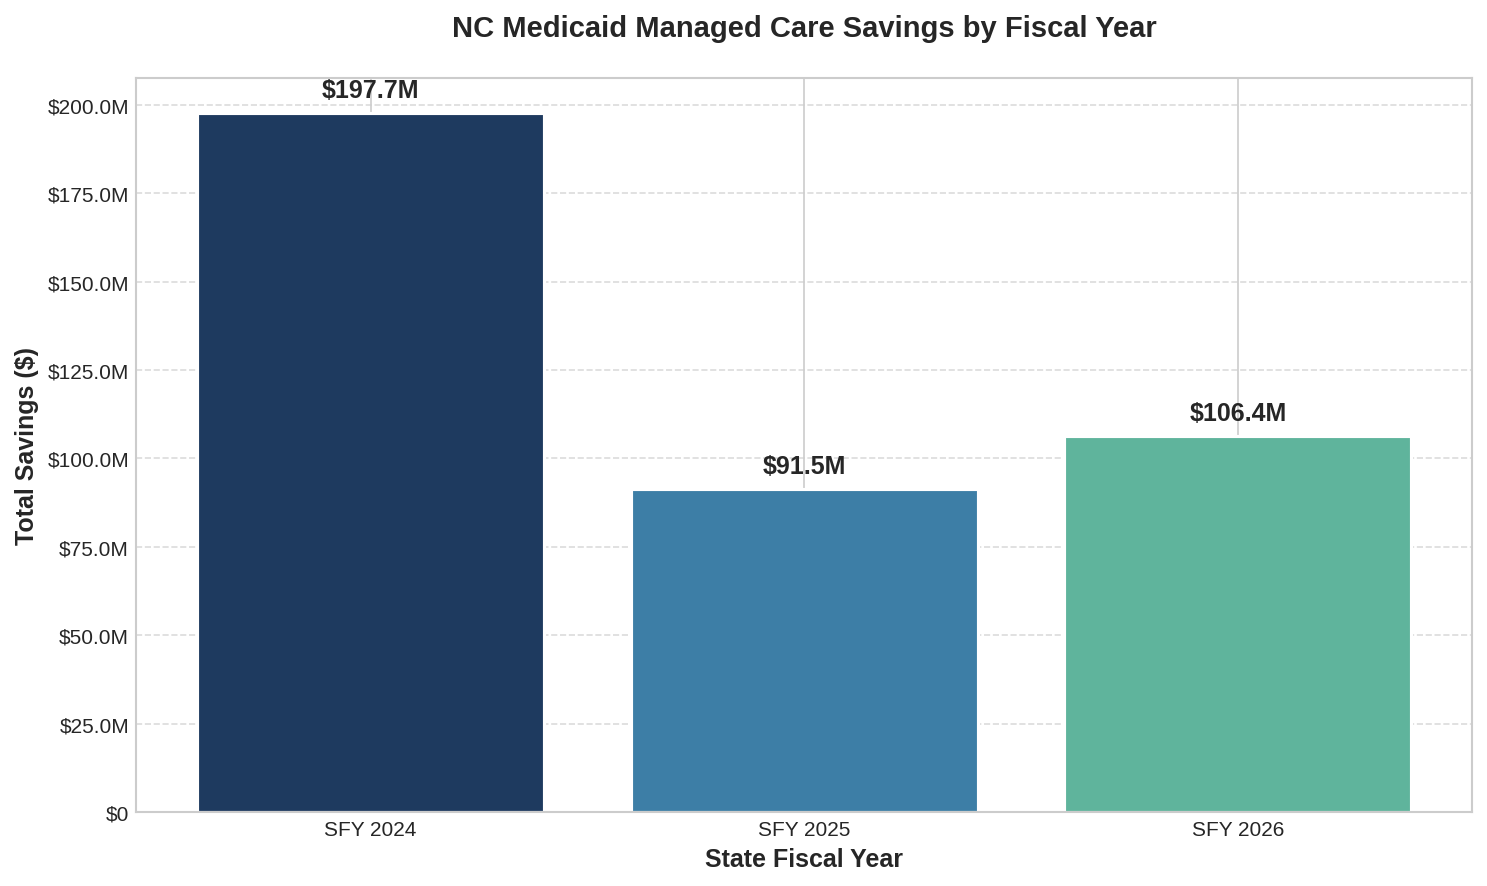
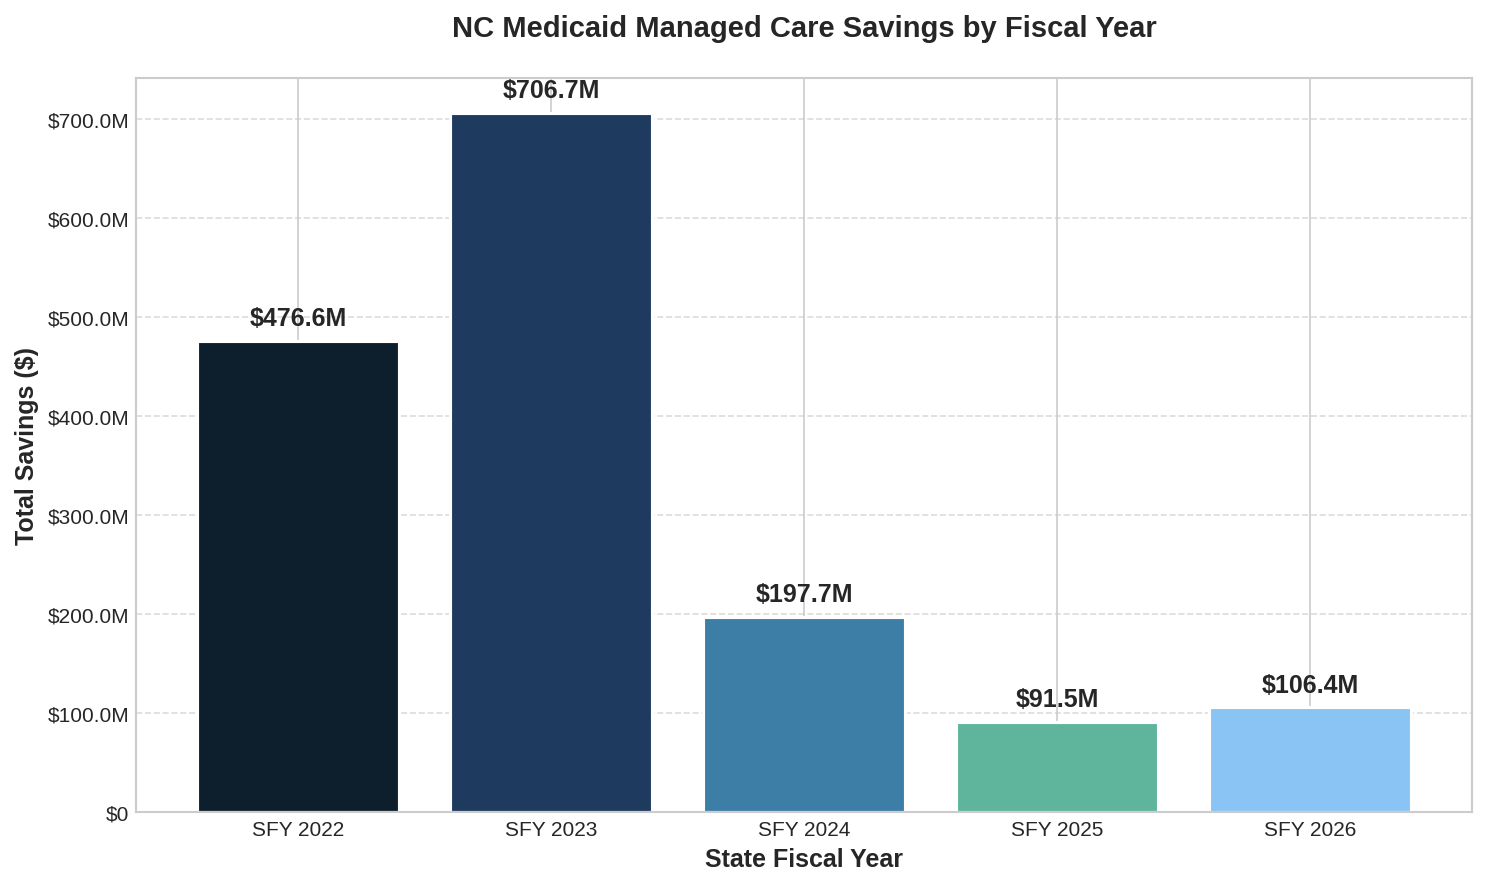
added SFY22 and SFY23

diff --git a/src/normalize.py b/src/normalize.py
@@ -14,6 +14,7 @@ import re
 RATE_CELL_MAPPINGS = {
     # ABD variations
     "ABD": "ABD",
+    "ABD All": "ABD",  # SFY22-23 format
     "Aged, Blind, Disabled": "ABD",
     
     # TANF Newborn variations
@@ -33,7 +34,7 @@ RATE_CELL_MAPPINGS = {
     "Maternity": "MAT",
     "MAT": "MAT",
     
-    # Newly Eligible variations
+    # Newly Eligible variations (not present in SFY22-23)
     "Newly Elig 19-24": "NE (19 - 24)",
     "NE (19 - 24)": "NE (19 - 24)",
     
@@ -154,6 +155,46 @@ class ColumnConfig:
 # Note: Using 0-based column indices
 
 SFY_CONFIGS: Dict[int, ColumnConfig] = {
+    2022: ColumnConfig(
+        sfy=2022,
+        member_months_cell=(7, 1),  # Row 8, Column B (0-indexed: row 7, col 1)
+        header_row=14,
+        data_start_row=16,  # First data row
+        data_end_row=39,    # End before Total row
+        total_row=39,
+        category_col=0,    # Column A - Category of Service
+        base_pmpm_col=1,   # Column B - Base PMPM
+        base_unit_cost_col=2,  # Column C - Base Unit Cost
+        base_util_col=3,   # Column D - Base Util
+        trend_pmpm_col=4,  # Column E - Trend factor
+        trend_unit_cost_col=5,  # Column F - Trend Unit Cost
+        trend_util_col=6,  # Column G - Trend Util
+        program_changes_col=7,  # Column H - Program Changes
+        mcs_adjustment_col=8,   # Column I - Managed Care Adjustment
+        total_medical_pmpm_col=9,  # Column J - Total Medical PMPM
+        total_medical_unit_cost_col=10,  # Column K - Total Medical Unit Cost
+        total_medical_util_col=11,  # Column L - Total Medical Util
+    ),
+    2023: ColumnConfig(
+        sfy=2023,
+        member_months_cell=(7, 1),  # Row 8, Column B (0-indexed: row 7, col 1)
+        header_row=14,
+        data_start_row=16,  # First data row
+        data_end_row=39,    # End before Total row
+        total_row=39,
+        category_col=0,    # Column A - Category of Service
+        base_pmpm_col=1,   # Column B - Base PMPM
+        base_unit_cost_col=2,  # Column C - Base Unit Cost
+        base_util_col=3,   # Column D - Base Util
+        trend_pmpm_col=4,  # Column E - Trend factor
+        trend_unit_cost_col=5,  # Column F - Trend Unit Cost
+        trend_util_col=6,  # Column G - Trend Util
+        program_changes_col=7,  # Column H - Program Changes
+        mcs_adjustment_col=8,   # Column I - Managed Care Adjustment
+        total_medical_pmpm_col=9,  # Column J - Total Medical PMPM
+        total_medical_unit_cost_col=10,  # Column K - Total Medical Unit Cost
+        total_medical_util_col=11,  # Column L - Total Medical Util
+    ),
     2024: ColumnConfig(
         sfy=2024,
         member_months_cell=(7, 1),  # Row 8, Column B (0-indexed: row 7, col 1)
@@ -228,6 +269,12 @@ def get_sfy_from_filename(filename: str) -> int:
     # Check for SFY2024 (be careful not to match publication dates)
     elif "SFY24" in filename or "SFY_24" in filename:
         return 2024
+    # Check for SFY2023
+    elif "SFY23" in filename or "SFY_23" in filename:
+        return 2023
+    # Check for SFY2022
+    elif "SFY2022" in filename or "SFY_2022" in filename or "SFY22" in filename:
+        return 2022
     raise ValueError(f"Cannot determine SFY from filename: {filename}")
 
 

diff --git a/src/visualize.py b/src/visualize.py
@@ -33,9 +33,11 @@ COLORS = {
 }
 
 SFY_COLORS = {
-    2024: '#1e3a5f',
-    2025: '#3d7ea6', 
-    2026: '#5fb49c',
+    2022: '#0d1f2d',  # Darkest navy
+    2023: '#1e3a5f',  # Dark navy
+    2024: '#3d7ea6',  # Medium blue
+    2025: '#5fb49c',  # Teal green
+    2026: '#89c4f4',  # Light blue
 }
 
 
@@ -248,25 +250,30 @@ def plot_regional_comparison_by_year(save: bool = True) -> plt.Figure:
     """Create grouped bar chart comparing regional savings across years."""
     # Get data for all years
     all_data = []
-    for sfy in [2024, 2025, 2026]:
+    sfy_list = [2022, 2023, 2024, 2025, 2026]
+    for sfy in sfy_list:
         df = get_summary_by_region(sfy)
-        df['SFY'] = sfy
-        all_data.append(df)
+        if len(df) > 0:
+            df['SFY'] = sfy
+            all_data.append(df)
     
     combined = pd.concat(all_data, ignore_index=True)
+    
+    # Get unique SFYs that have data
+    available_sfys = sorted(combined['SFY'].unique())
     
     # Pivot for grouped bar chart
     pivot = combined.pivot(index='Region', columns='SFY', values='Total Savings')
     
-    fig, ax = plt.subplots(figsize=(12, 7))
+    fig, ax = plt.subplots(figsize=(14, 7))
     
     x = range(len(pivot.index))
-    width = 0.25
+    width = 0.15  # Narrower bars for 5 years
     
-    for i, sfy in enumerate([2024, 2025, 2026]):
-        offset = (i - 1) * width
+    for i, sfy in enumerate(available_sfys):
+        offset = (i - len(available_sfys) / 2 + 0.5) * width
         bars = ax.bar([xi + offset for xi in x], pivot[sfy], width, 
-                      label=f'SFY {sfy}', color=SFY_COLORS[sfy],
+                      label=f'SFY {sfy}', color=SFY_COLORS.get(sfy, COLORS['primary']),
                       edgecolor='white', linewidth=1)
     
     ax.set_xlabel('Region', fontsize=12, fontweight='bold')

diff --git a/src/analysis.py b/src/analysis.py
@@ -283,6 +283,10 @@ def generate_summary_text() -> str:
     top_categories = category_summary.head(5)
     
     # Build summary text
+    # Determine SFY range
+    min_sfy = int(df['sfy_id'].min())
+    max_sfy = int(df['sfy_id'].max())
+    
     lines = [
         "=" * 80,
         "NORTH CAROLINA MEDICAID MANAGED CARE SAVINGS ANALYSIS",
@@ -291,7 +295,7 @@ def generate_summary_text() -> str:
         "EXECUTIVE SUMMARY",
         "-" * 40,
         "",
-        f"Total Managed Care Savings (SFY 2024-2026): ${total_savings:,.0f}",
+        f"Total Managed Care Savings (SFY {min_sfy}-{max_sfy}): ${total_savings:,.0f}",
         f"Total Member Months: {total_member_months:,.0f}",
         f"Estimated Members Served: {total_members:,.0f}",
         "",

diff --git a/src/db.py b/src/db.py
@@ -68,6 +68,18 @@ def init_db(engine=None):
         if session.query(FiscalYear).count() == 0:
             fiscal_years = [
                 FiscalYear(
+                    sfy_id=2022, 
+                    sfy_name="SFY 2022",
+                    contract_start=date(2021, 7, 1),
+                    contract_end=date(2022, 6, 30)
+                ),
+                FiscalYear(
+                    sfy_id=2023, 
+                    sfy_name="SFY 2023",
+                    contract_start=date(2022, 7, 1),
+                    contract_end=date(2023, 6, 30)
+                ),
+                FiscalYear(
                     sfy_id=2024, 
                     sfy_name="SFY 2024",
                     contract_start=date(2024, 1, 1),
